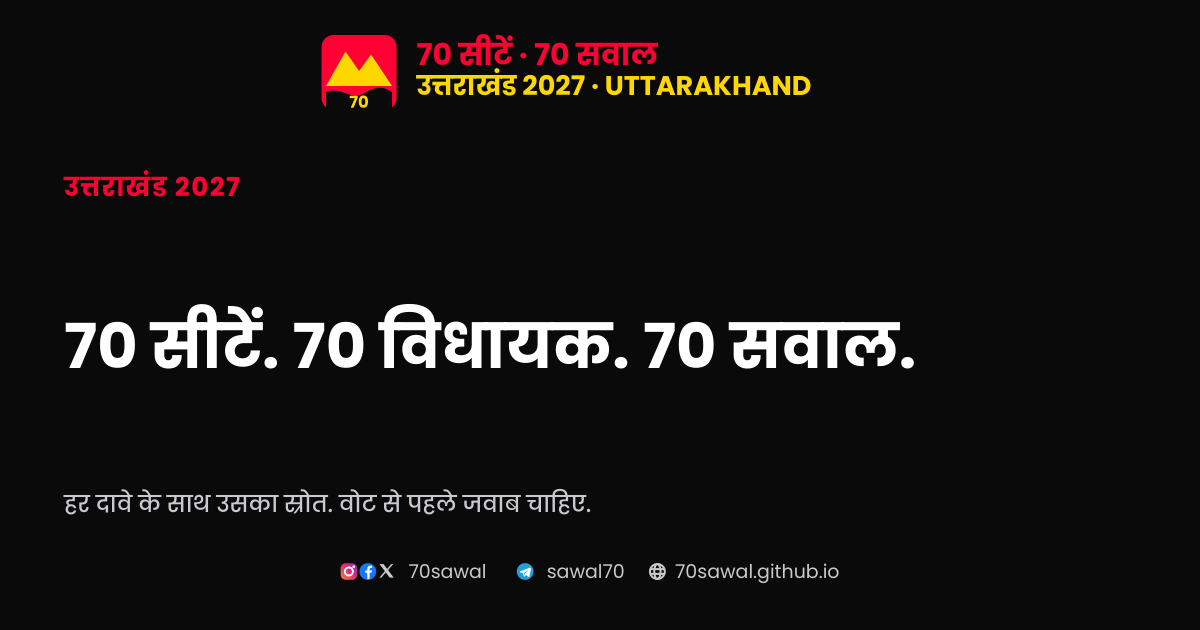
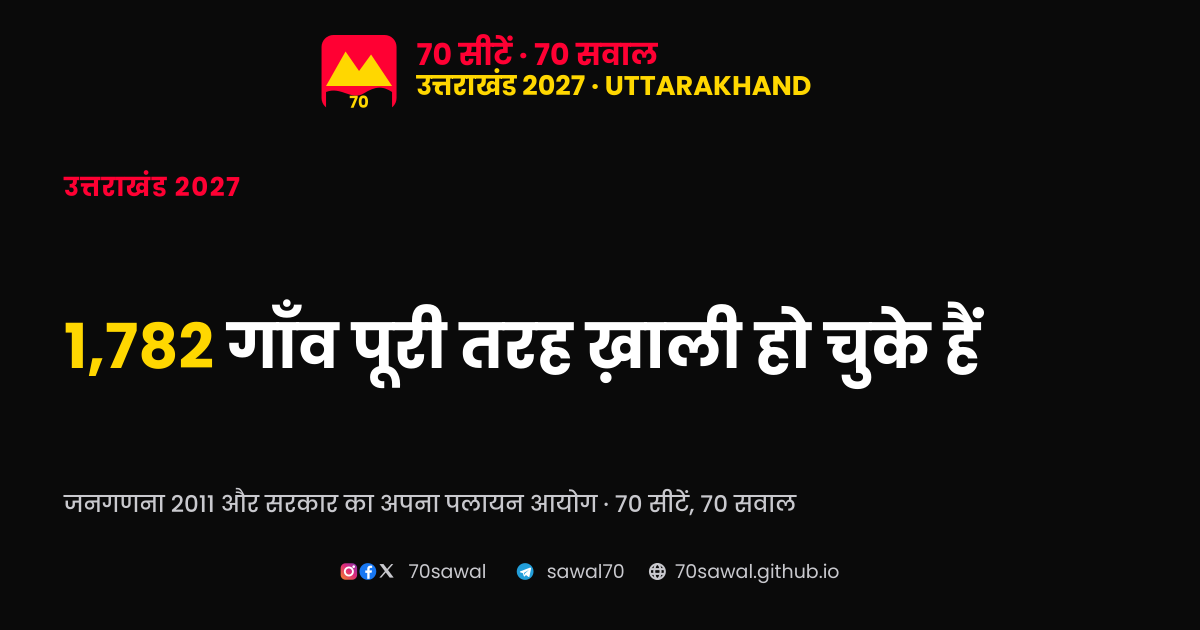
homepage leads with 1,782 emptied villages

Changed region(s): [[0.0308, 0.4825, 0.8325, 0.6333], [0.0308, 0.7841, 0.6783, 0.8143]]

diff --git a/index.html b/index.html
@@ -48,10 +48,10 @@
 
 <section class="lead">
   <p class="kicker" data-hi="सरकार के अपने दस्तावेज़ से" data-en="From the government's own records">सरकार के अपने दस्तावेज़ से</p>
-  <p class="bignum">491</p>
-  <p class="bigtext" data-hi="विशेषज्ञ डॉक्टर के पद ख़ाली थे, पहाड़ के नौ ज़िलों में. 704 में से. यह 2022 के ऑडिट का आँकड़ा है. आज कितने भरे?"
-     data-en="specialist doctor posts lay vacant across the nine hill districts, out of 704, in the 2022 audit. How many are filled today?">विशेषज्ञ डॉक्टर के पद ख़ाली थे, पहाड़ के नौ ज़िलों में. 704 में से. यह 2022 के ऑडिट का आँकड़ा है. आज कितने भरे?</p>
-  <p class="bigsrc">स्रोत: <a href="q/13/">CAG रिपोर्ट सं. 3, 2024 →</a></p>
+  <p class="bignum">1,782</p>
+  <p class="bigtext" data-hi="गाँव पूरी तरह ख़ाली हो चुके हैं. एक भी आदमी नहीं. 2011 की जनगणना में 1,048 निर्जन थे, सरकार के अपने पलायन आयोग ने उसके बाद 734 और गिने."
+     data-en="villages now stand completely empty. Not one person left. The 2011 Census counted 1,048 uninhabited, and the government's own Migration Commission counted 734 more after it.">गाँव पूरी तरह ख़ाली हो चुके हैं. एक भी आदमी नहीं. 2011 की जनगणना में 1,048 निर्जन थे, सरकार के अपने पलायन आयोग ने उसके बाद 734 और गिने.</p>
+  <p class="bigsrc">स्रोत: <a href="q/7/">जनगणना 2011 और पलायन आयोग →</a></p>
 </section>
 
 <section class="promise">
@@ -95,7 +95,7 @@
 <h2 class="secttl" data-hi="कुछ आँकड़े, शुरुआत के लिए" data-en="A few figures, to begin with">कुछ आँकड़े, शुरुआत के लिए</h2>
 <section class="figures">
   <a href="seat/almora/"><b>127</b><span data-hi="वोट से अल्मोड़ा सीट तय हुई, 2022 में" data-en="votes decided the Almora seat in 2022">वोट से अल्मोड़ा सीट तय हुई, 2022 में</span></a>
-  <a href="q/7/"><b>1,782</b><span data-hi="गाँव पूरी तरह ख़ाली हो चुके हैं" data-en="villages now stand completely empty">गाँव पूरी तरह ख़ाली हो चुके हैं</span></a>
+  <a href="q/13/"><b>491</b><span data-hi="विशेषज्ञ डॉक्टर के पद ख़ाली, पहाड़ के नौ ज़िलों में" data-en="specialist doctor posts vacant across the nine hill districts">विशेषज्ञ डॉक्टर के पद ख़ाली, पहाड़ के नौ ज़िलों में</span></a>
   <a href="margins/"><b>70/70</b><span data-hi="सीटों पर वोट न डालने वाले जीत के अंतर से ज़्यादा थे" data-en="seats where non-voters outnumbered the winning margin">सीटों पर वोट न डालने वाले जीत के अंतर से ज़्यादा थे</span></a>
   <a href="q/40/"><b>₹13.86 करोड़</b><span data-hi="पेड़ लगाने का पैसा, आई-फ़ोन और लैपटॉप पर" data-en="of tree-planting money, spent on iPhones and laptops">पेड़ लगाने का पैसा, आई-फ़ोन और लैपटॉप पर</span></a>
 </section>
